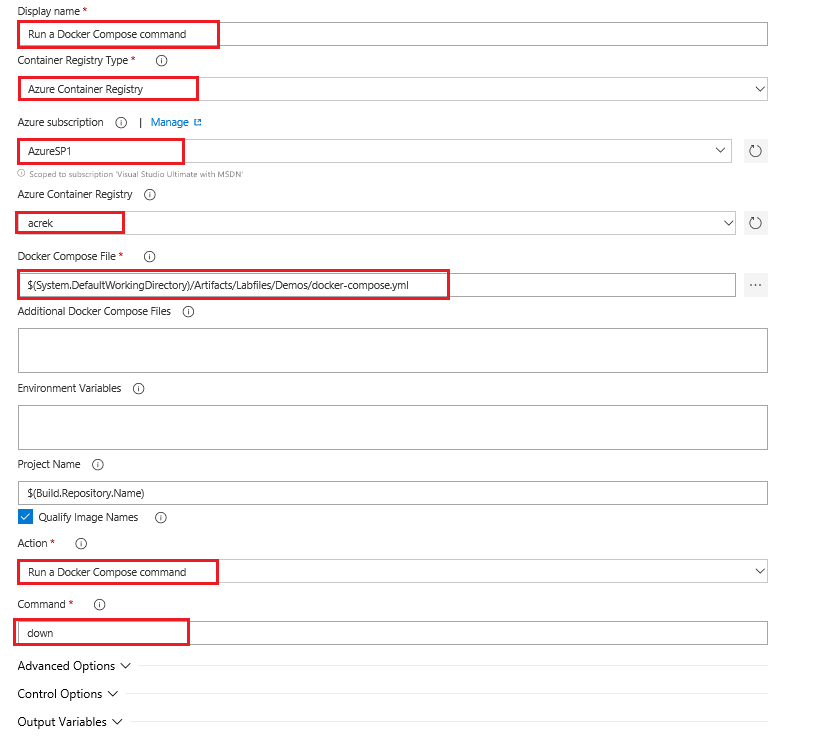
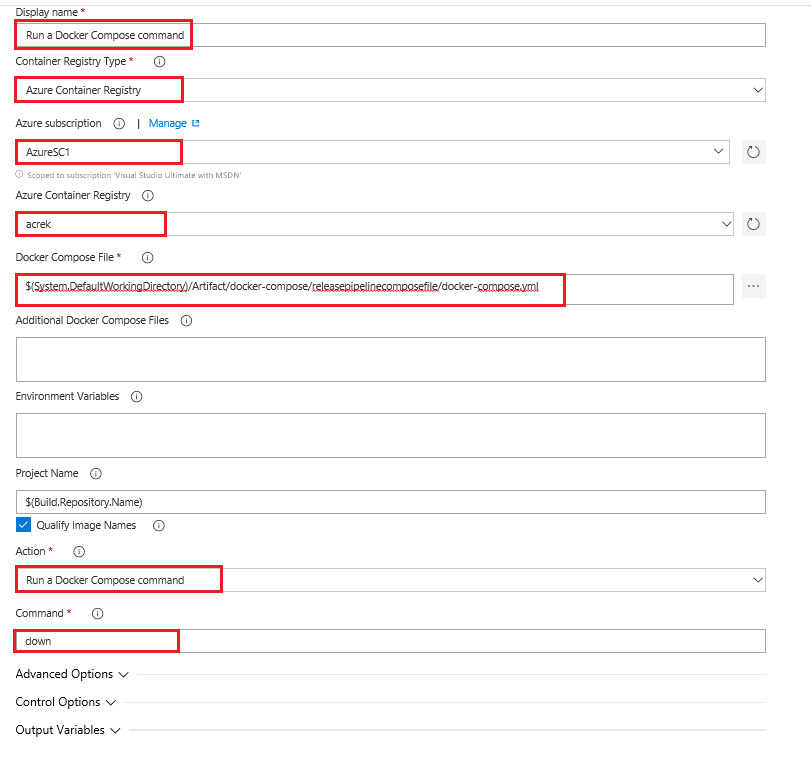
updated container CD lab steps and images

diff --git a/_posts/2018-01-08-200.4x-ConfigMgmt-CDwithWindowsContainersandVSTS.md b/_posts/2018-01-08-200.4x-ConfigMgmt-CDwithWindowsContainersandVSTS.md
@@ -602,8 +602,8 @@ Now we will create a release pipeline to deploy our newly built application
     - **Display name**: Run a Docker Compose command
     - **Container Registry Type**: Azure Container Registry
     - **Azure Subscription**: < Your Azure Subscription >
-    - **Azure Container Registry**: > the name of your Azure Container Registry >
-    - **Docker-compose Files**: < click the ellipsis button at the end of the box and in the artifacts point to labfiles\labs\docker-compose.yml >
+    - **Azure Container Registry**: < the name of your Azure Container Registry >
+    - **Docker-compose Files**: < click the ellipsis button at the end of the box and in the artifacts window point to the build artifact **docker-compose/releasepipelinecomposefile/docker-compose.yml**. >
     - **Action**: Run a docker compose command
     - **Command**: down
 
